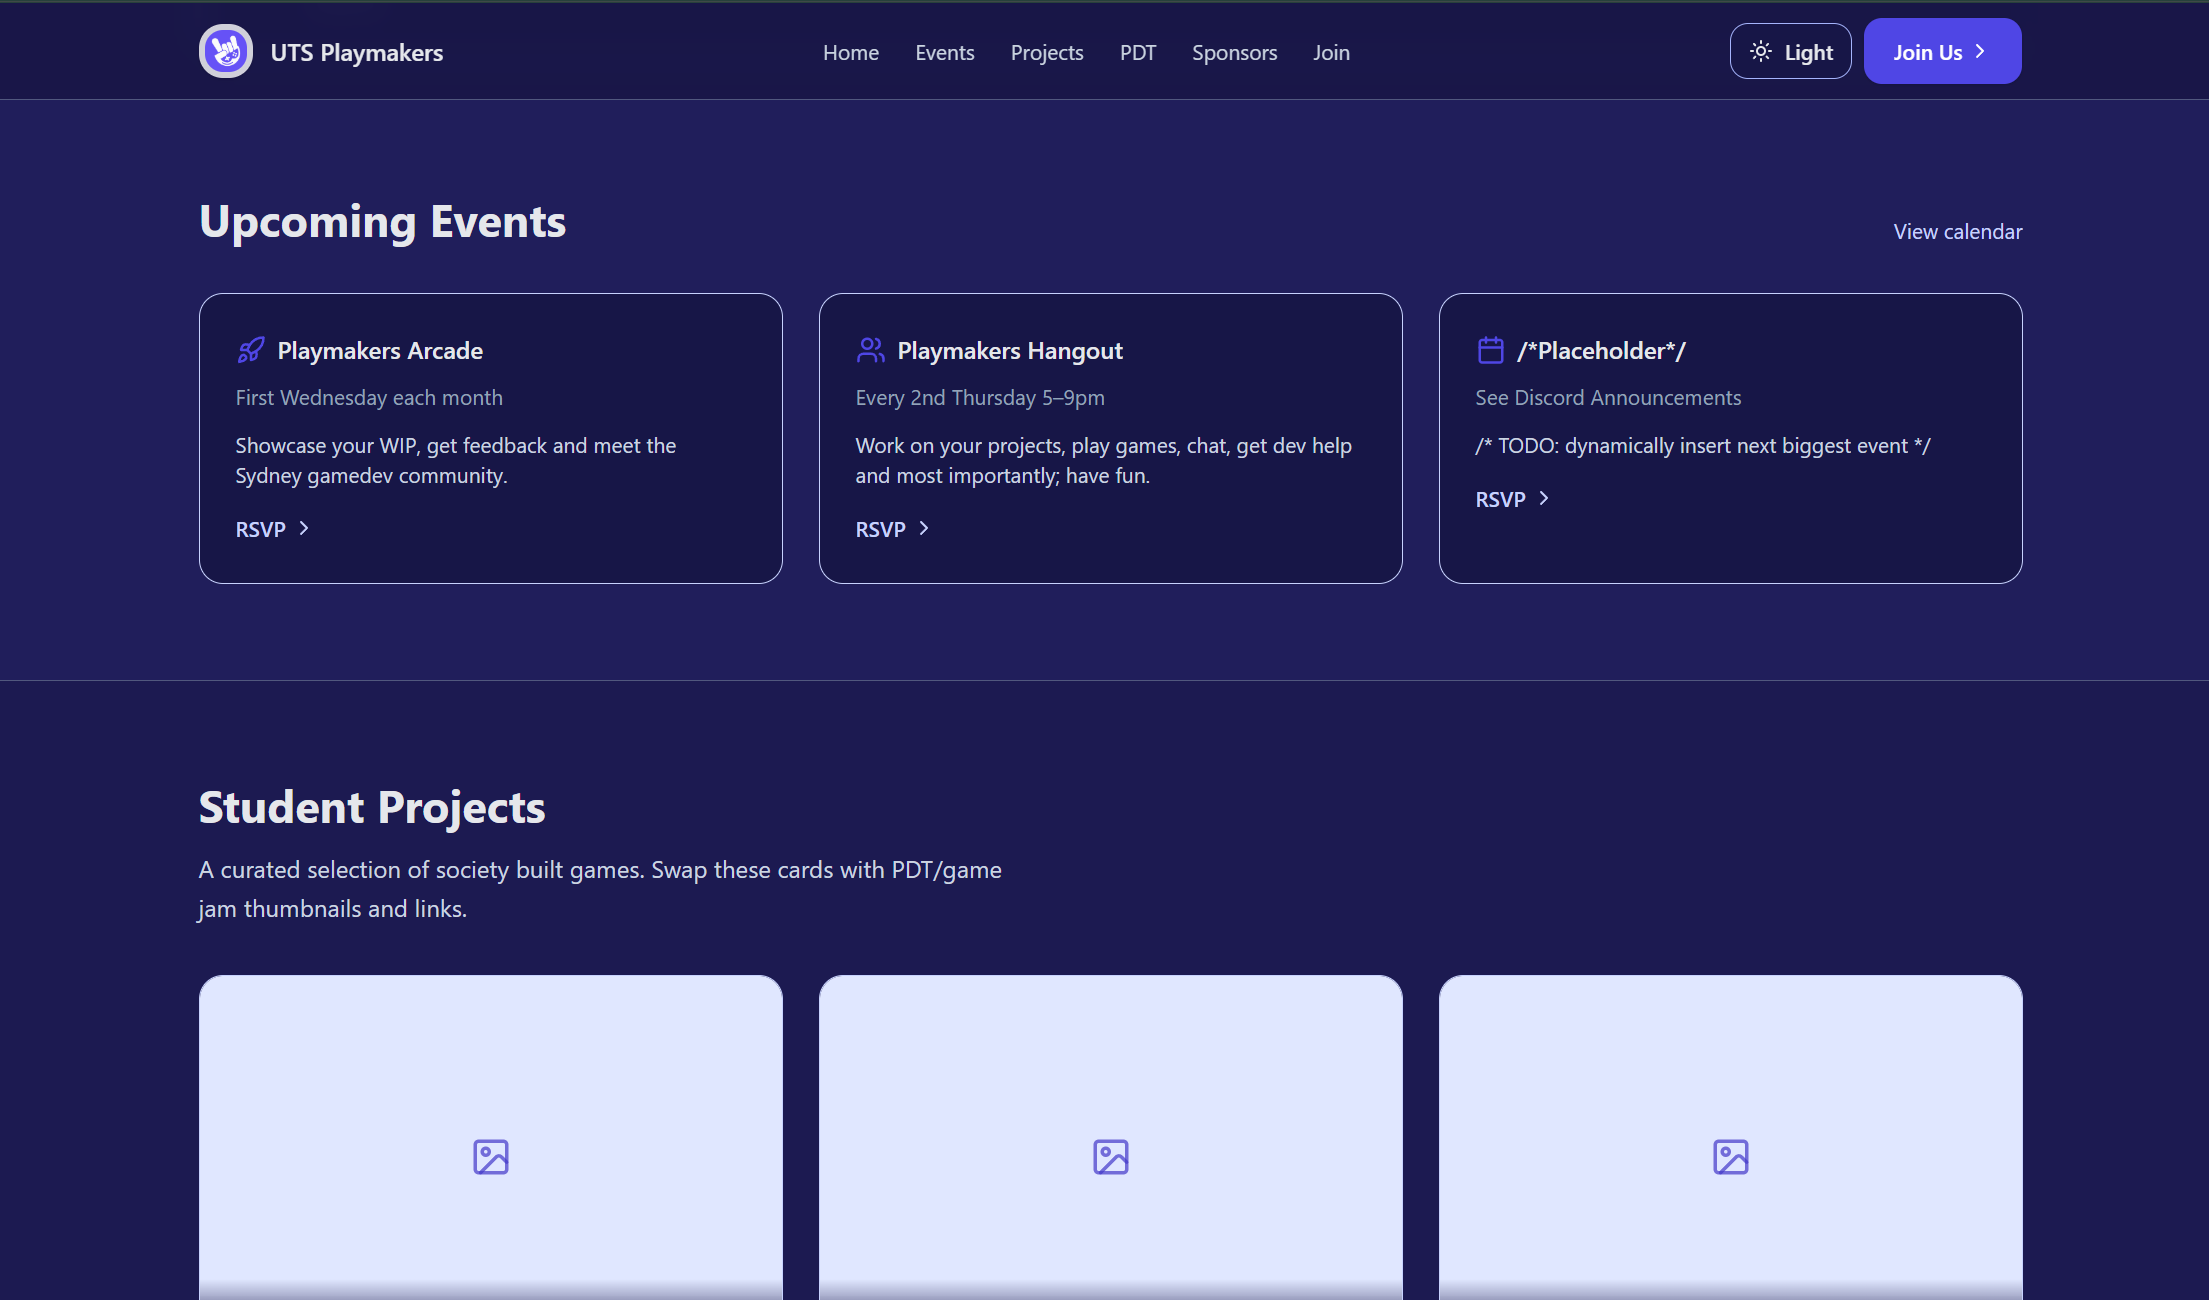
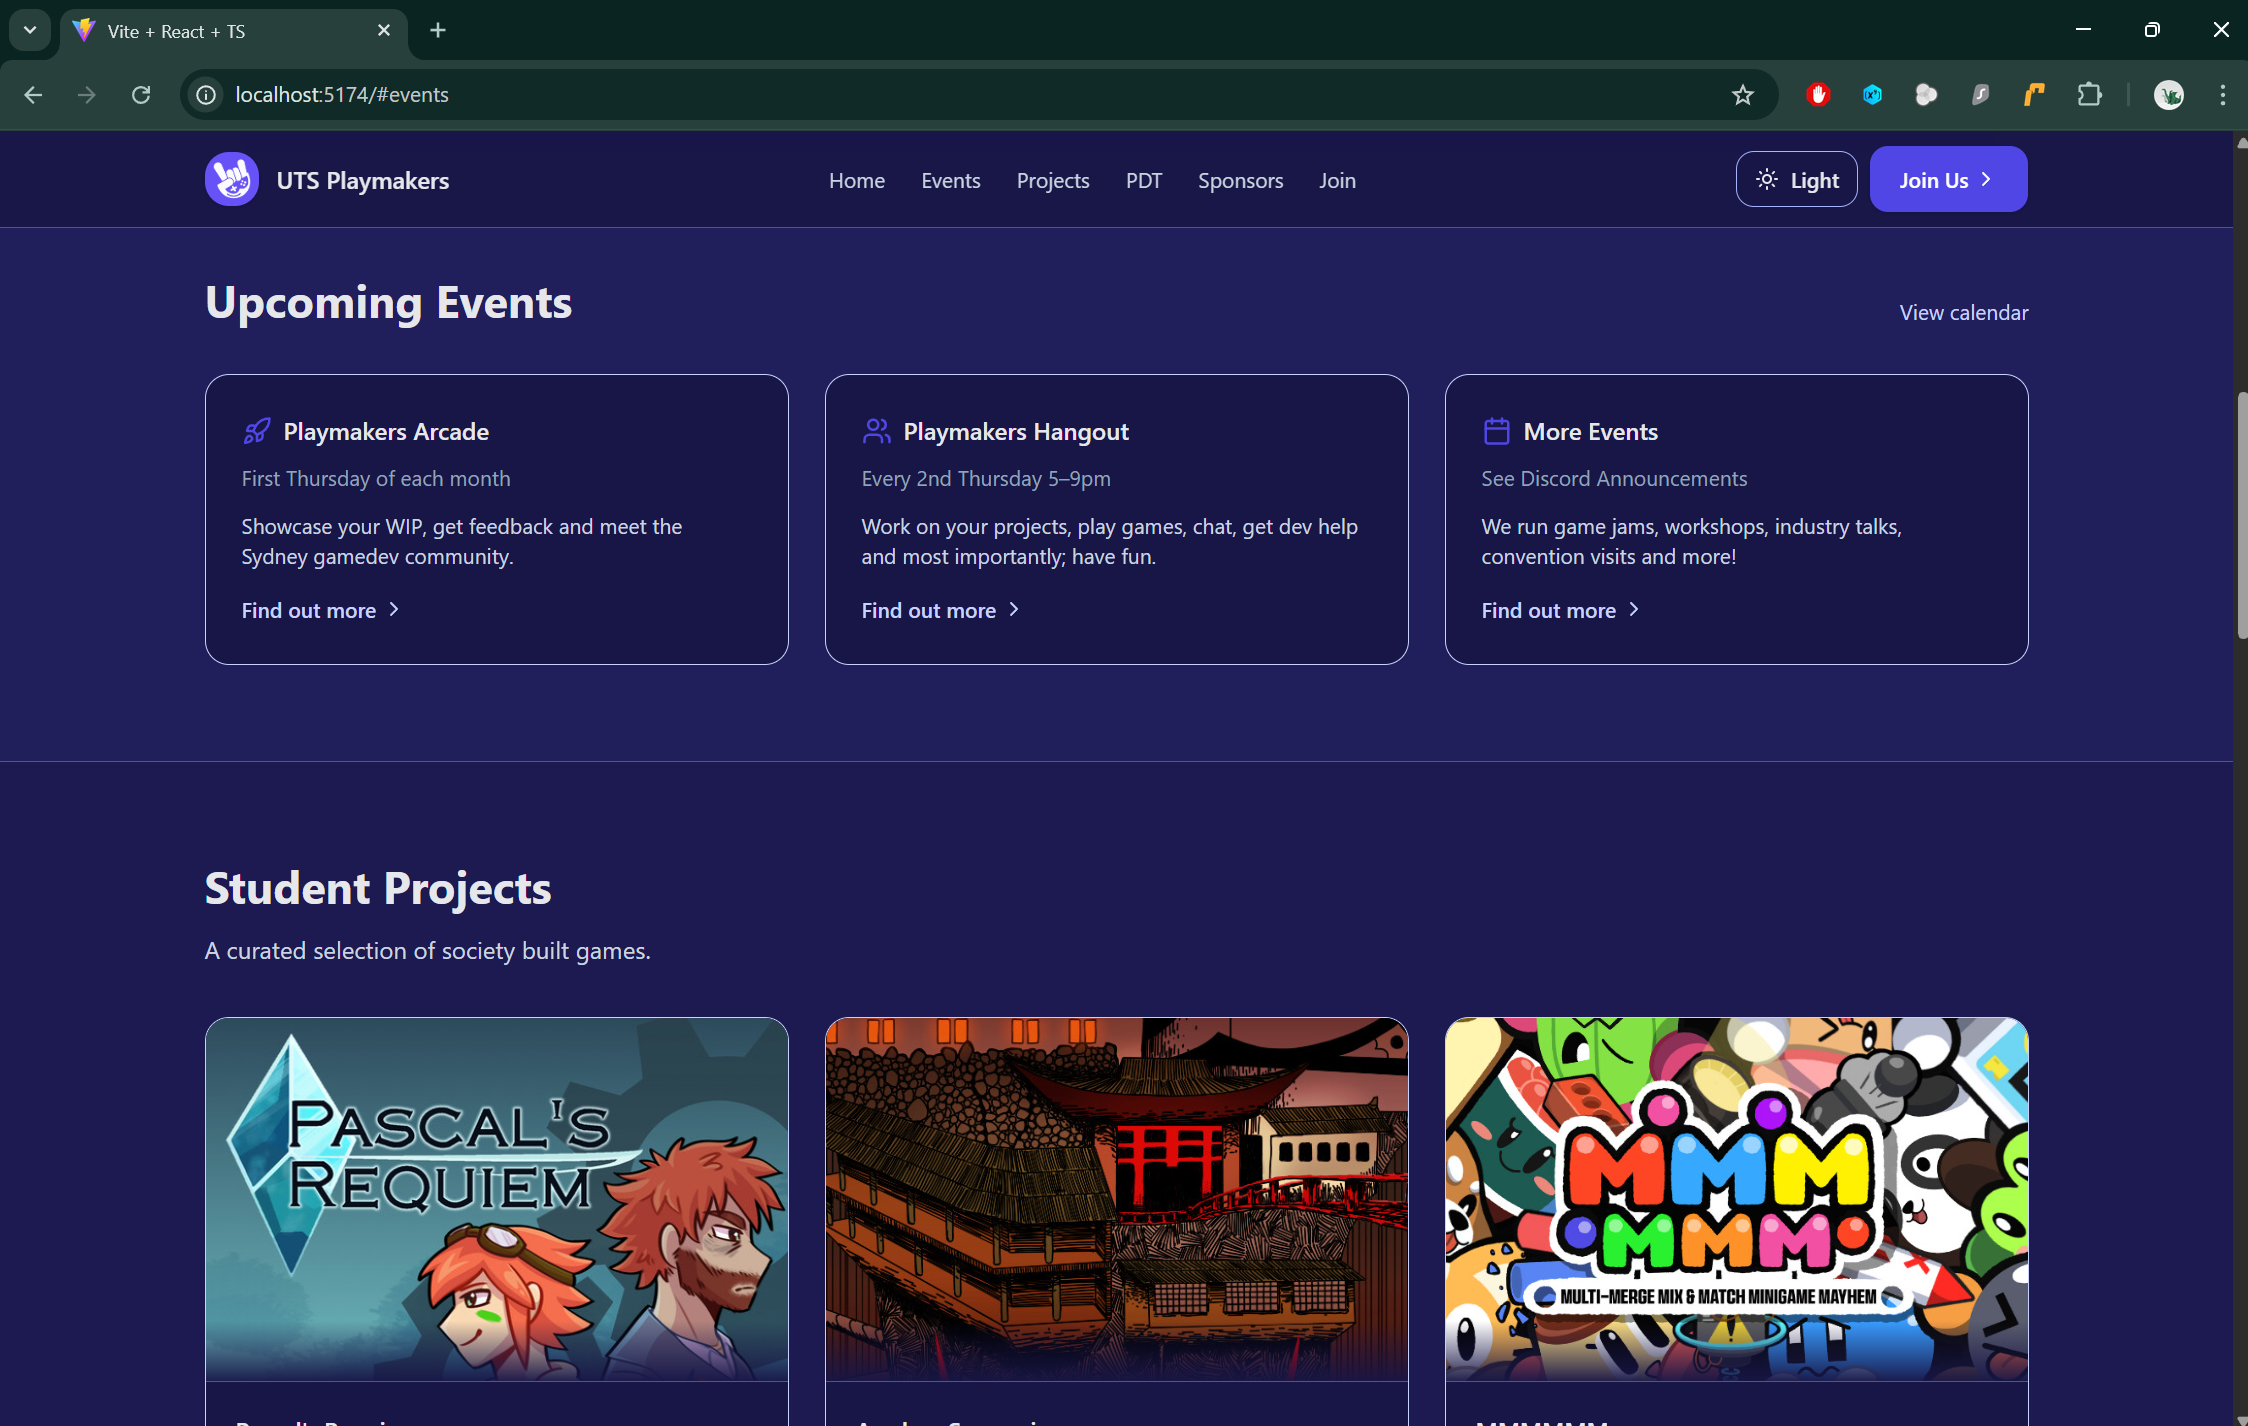
Updated Projects Section, Style Changes and more progress image

diff --git a/playmakers-website/src/App.tsx b/playmakers-website/src/App.tsx
@@ -21,7 +21,7 @@ import {
 } from "lucide-react";
 
 /* -----------------------------------------------------
-   TODO : Find 6 Games for the Projects Section, Prepare for deployment
+   TODO : Update Project 6 Thumbnail, Prepare for deployment on Vercel
 ----------------------------------------------------- */
 const LOGO_SRC = "/logo.png";
 
@@ -43,7 +43,7 @@ const nav = [
 const events = [
   {
     title: "Playmakers Arcade",
-    date: "First Wednesday each month",
+    date: "First Thursday of each month",
     blurb:
       "Showcase your WIP, get feedback and meet the Sydney gamedev community.",
     icon: <Rocket className="h-5 w-5 text-brand-600" aria-hidden />,
@@ -56,9 +56,10 @@ const events = [
     icon: <Users className="h-5 w-5 text-brand-600" aria-hidden />,
   },
   {
-    title: "/*Placeholder*/",
+    title: "More Events",
     date: "See Discord Announcements",
-    blurb: "/* TODO: dynamically insert next biggest event */",
+    blurb:
+      "We run game jams, workshops, industry talks, convention visits and more! ",
     icon: <Calendar className="h-5 w-5 text-brand-600" aria-hidden />,
   },
 ];
@@ -77,52 +78,48 @@ type Project = {
 
 const projects: Project[] = [
   {
-    title: "Project Title 1",
-    desc: "Short description about the game",
+    title: "Pascal's Requiem",
+    desc: "Embark on an epic journey to change the past in this 2.5D adventure RPG! Conquer turn-based minigame battles to unravel a story of fate and self-discovery. Will you accept your fate, or forge a new destiny?",
     image: "/projects/project1.jpg",
-    itch: "#",
-    steam: "#",
-    link: "#",
+    steam: "https://store.steampowered.com/app/3224780/Pascals_Requiem/",
+    link: "https://store.steampowered.com/app/3224780/Pascals_Requiem/",
   },
   {
-    title: "Project Title 2",
-    desc: "Short description about the game",
+    title: "Armless Samurai",
+    desc: "Armless Samurai is a fast paced first-person parkour game where you play as a samurai whose limbs have been lost in battle, and robbed from their arsenal. Worry not, however, they haven’t taken your legs yet! And this will be your enemy's greatest mistake…",
     image: "/projects/project2.jpg",
-    itch: "#",
-    steam: "#",
-    link: "#",
+    steam: "https://store.steampowered.com/app/2800020/Armless_Samurai/",
+    link: "https://store.steampowered.com/app/2800020/Armless_Samurai/",
   },
   {
-    title: "Project Title 3",
-    desc: "Short description about the game",
+    title: "MMMMMM",
+    desc: "Multi-Merge Mix & Match Minigame Mayhem is a frantic local and online multiplayer party game for up to 8 players. Run, jump and punch your way through an onslaught of simultaneous microgames as you try to be the last one standing in each of them!",
     image: "/projects/project3.jpg",
-    itch: "#",
-    steam: "#",
-    link: "#",
+    steam:
+      "https://store.steampowered.com/app/3655540/MMMMMM_MultiMerge_Mix__Match_Minigame_Mayhem/",
+    link: "https://store.steampowered.com/app/3655540/MMMMMM_MultiMerge_Mix__Match_Minigame_Mayhem/",
   },
   {
-    title: "Project Title 4",
-    desc: "Short description about the game",
-    image: "/projects/project4.jpg",
-    itch: "#",
-    steam: "#",
-    link: "#",
+    title: "Chopsticks",
+    desc: "CHOPSTICKS is a local multiplayer fighting game set across the globe. With just one attack button and a focus on parrying, strategy is key. Each map opens up unique gameplay opportunities with map specific elements: from giant lasers to sticks that can be used as swords!",
+    image: "/projects/project4.png",
+    steam:
+      "https://store.steampowered.com/app/3982670/CHOPSTICKS_Stick_Figure_Fighting/",
+    link: "https://store.steampowered.com/app/3982670/CHOPSTICKS_Stick_Figure_Fighting/",
   },
   {
-    title: "Project Title 5",
-    desc: "Short description about the game",
+    title: "Quantum Loop",
+    desc: "Zoom and dodge your way about space, exploring the quadrant and solving intertwining objectives however you can. Hit an asteroid and the mission resets - but whatever you learn you can exploit in the next loop! Use your crafty wits and precise piloting in chorus to prevent the asteroid crisis!",
     image: "/projects/project5.jpg",
-    itch: "#",
-    steam: "#",
-    link: "#",
+    steam: "https://store.steampowered.com/app/3186440/Quantum_Loop/",
+    link: "https://store.steampowered.com/app/3186440/Quantum_Loop/",
   },
   {
-    title: "Project Title 6",
-    desc: "Short description about the game",
+    title: "Arcane Raiders",
+    desc: "Arcane Raiders is a rogue-like dungeon-raider where you blast enemies with spells and maneuver through traps to pillage the Tower of its treasure. Tight dodging controls and powerful elemental synergies will help you in your quest to take down the Tower's fearsome bosses and make it out with as much gold as possible.",
     image: "/projects/project6.jpg",
-    itch: "#",
-    steam: "#",
-    link: "#",
+    steam: "https://store.steampowered.com/app/2899410/Arcane_Raiders/",
+    link: "https://store.steampowered.com/app/2899410/Arcane_Raiders/",
   },
 ];
 
@@ -191,10 +188,10 @@ function Thumb({ src, alt }: { src: string; alt: string }) {
    SPONSORS
 ----------------------------------------------------- */
 const sponsors = [
-  { name: "MSI Australia", href: "#" },
-  { name: "Riot Games", href: "#" },
-  { name: "/*Placeholder*/", href: "#" },
-  { name: "/*Placeholder*/", href: "#" },
+  { name: "MSI Australia", href: "https://au.msi.com/" }, //TEXTFIELD: Sponsors
+  { name: "Riot Games", href: "https://www.riotgames.com/en" },
+  { name: "SXSW", href: "https://www.sxswsydney.com/" },
+  { name: "ActivateUTS", href: "https://www.activateuts.com.au/" },
 ];
 
 /* -----------------------------------------------------
@@ -282,11 +279,13 @@ export default function App() {
         <nav className="mx-auto max-w-7xl px-4 sm:px-6 lg:px-8">
           <div className="flex h-16 items-center justify-between">
             <a href="#home" className="flex items-center gap-3">
-              <img
-                src={LOGO_SRC}
-                alt="UTS Playmakers logo"
-                className="h-9 w-9 rounded-2xl object-contain bg-white/80 p-1 shadow-sm"
-              />
+              <div className="h-9 w-9 rounded-2xl overflow-hidden shadow-sm">
+                <img
+                  src={LOGO_SRC}
+                  alt="UTS Playmakers logo"
+                  className="h-full w-full object-contain"
+                />
+              </div>
               <span className="font-semibold text-1">UTS Playmakers</span>
             </a>
 
@@ -484,7 +483,7 @@ export default function App() {
                 href="#join"
                 className="mt-4 inline-flex items-center text-sm font-medium text-brand-800 hover:underline"
               >
-                RSVP <ChevronRight className="ml-1 h-4 w-4" />
+                Find out more <ChevronRight className="ml-1 h-4 w-4" />
               </a>
             </motion.article>
           ))}
@@ -502,8 +501,7 @@ export default function App() {
             Student Projects
           </h2>
           <p className="mt-3 text-2 max-w-prose">
-            A curated selection of society built games. Swap these cards with
-            PDT/game jam thumbnails and links.
+            A curated selection of society built games.
           </p>
 
           <div className="mt-8 grid gap-6 sm:grid-cols-2 lg:grid-cols-3">
@@ -916,13 +914,16 @@ export default function App() {
           <div className="grid sm:grid-cols-2 lg:grid-cols-4 gap-8 text-sm">
             <div>
               <div className="flex items-center gap-2 font-semibold">
-                <img
-                  src={LOGO_SRC}
-                  alt="UTS Playmakers logo"
-                  className="h-8 w-8 rounded-xl object-contain bg-white p-1"
-                />
+                <div className="h-8 w-8 rounded-xl overflow-hidden">
+                  <img
+                    src={LOGO_SRC}
+                    alt="UTS Playmakers logo"
+                    className="h-full w-full object-contain"
+                  />
+                </div>
                 Playmakers Society
               </div>
+
               <p className="mt-3 text-2">The University of Technology Sydney</p>
               <p className="mt-1 inline-flex items-center gap-1 text-2">
                 <MapPin className="h-4 w-4 text-brand-700" /> 15 Broadway,
@@ -982,7 +983,7 @@ export default function App() {
                 </li>
                 <li className="inline-flex items-center gap-2">
                   <Github className="h-4 w-4 text-brand-700" />{" "}
-                  github.com/playmakers
+                  github.com/Playmakers-Development-Team
                 </li>
               </ul>
             </div>
